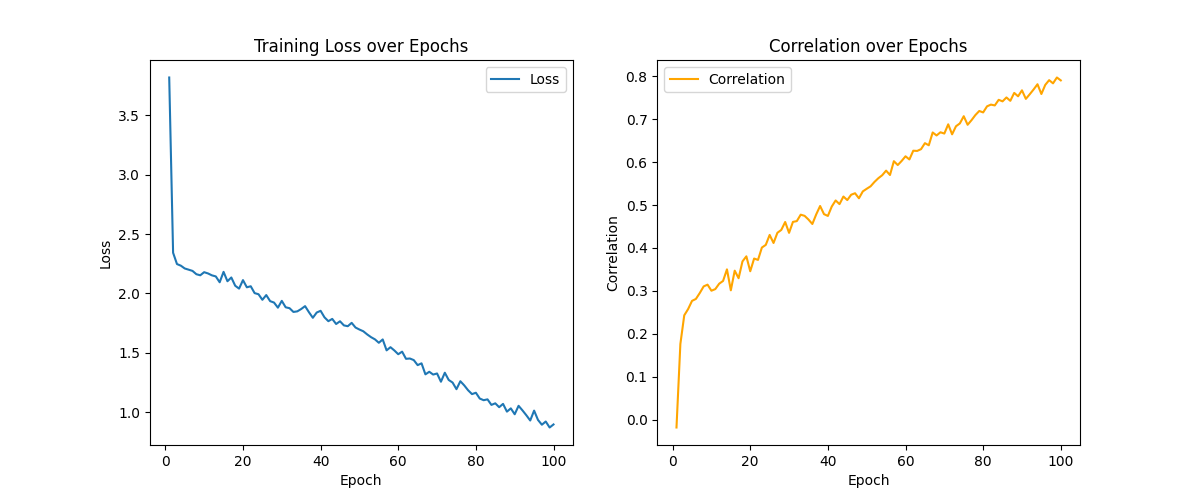
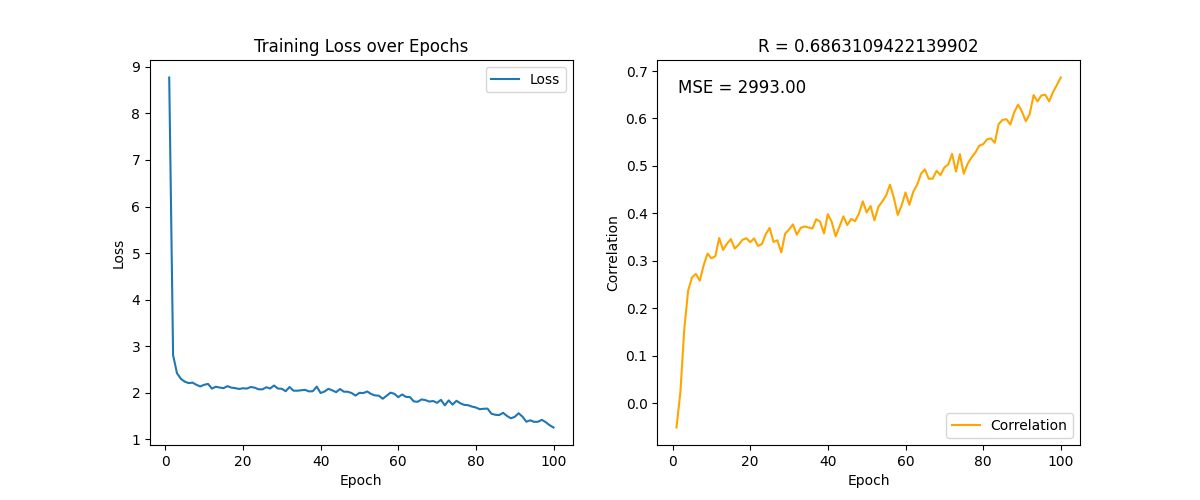
test vim param

diff --git a/preprocessing_project_copy.py b/preprocessing_project_copy.py
@@ -611,16 +611,16 @@ def training_vim(train_x, train_y):
 
     # Initialize the Vim model
     model = Vim(
-        dim=128,
+        dim=122,
         dt_rank=32,
-        dim_inner=128,
-        d_state=97,
+        dim_inner=122,
+        d_state=120,
         num_classes=1,  # For regression, typically the output is a single value per instance
         image_size=286,
         patch_size=13,
         channels=1,
-        dropout=0.26773,
-        depth=7,
+        dropout=0.1,
+        depth=10,
     )
 
     # Move the model to the GPU
@@ -628,7 +628,7 @@ def training_vim(train_x, train_y):
 
     # Using Mean Squared Error Loss for a regression task
     criterion = MSELoss()
-    optimizer = optim.Adam(model.parameters(), lr=0.000153341)
+    optimizer = optim.Adam(model.parameters(), lr=0.00021695439490401189)
 
     # Training loop
     model.train()  # Set the model to training mode
@@ -1197,8 +1197,8 @@ def main():
 
     model, loss_values, correlation_values, num_epochs, time = training_vim(train_x, train_y)
     test_mse, test_corr, outputs_flat, targets_flat = test_vim(model, test_x, test_y)
-    plot_vim(loss_values, correlation_values, num_epochs, time, name='training_performance_vim_150_epoch_0')
-    plot_test_results(outputs_flat, targets_flat, test_corr, test_mse, name='test_performace_vim_150_epoch_0')
+    plot_vim(loss_values, correlation_values, num_epochs, time, name='training_performance_vim_150_epoch_1')
+    plot_test_results(outputs_flat, targets_flat, test_corr, test_mse, name='test_performace_vim_150_epoch_1')
 
 
     # # Set CUDA_LAUNCH_BLOCKING to help with debugging
